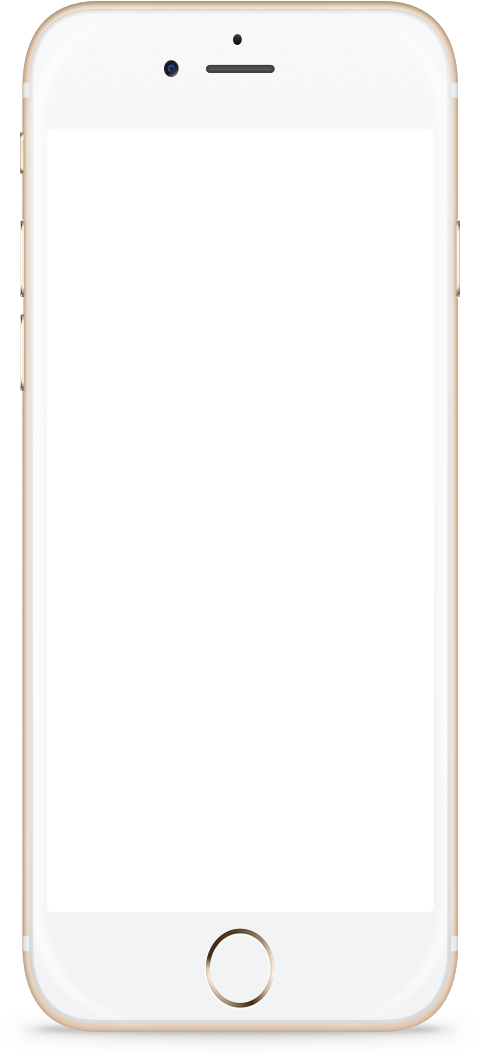
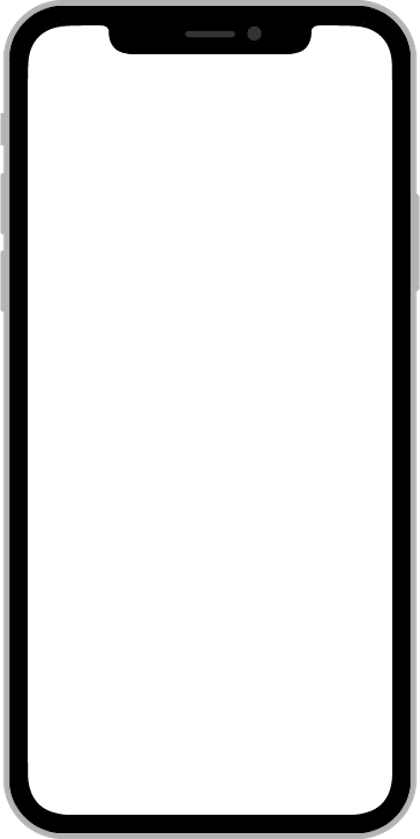
update

Changed region(s): [[0.0, 0.0, 1.0, 1.0], [0.5571, 0.8987, 0.5881, 0.9297]]

diff --git a/css/style.css b/css/style.css
@@ -16,21 +16,20 @@ body {
 	width: 375px;
 	height: 900px;
 }
-.iphone{
-  background-image: url("../images/iPhone.png");
-}
+
+
 .top{
   background-image: url("../images/map1.png");
   padding-bottom: 294px;
   background-repeat: no-repeat;
-  width: 600px;
+  width: 375px;
 
 }
 .top h1{
   	font-size: 20px;
     font-family: 'SF Pro Text';
     text-align: center;
-    padding-top: 32px;
+    padding-top: 41px;
     font-weight: 300;
 }
 hr {

diff --git a/index.html b/index.html
@@ -9,7 +9,7 @@
 </head>
 <body>
   <div class="container">
-  
+<!--  <img src="/images/iPhone.png" alt="iPhone"> -->
     <div class="top">
       <h1>Washington & State</h1>
     </div>
